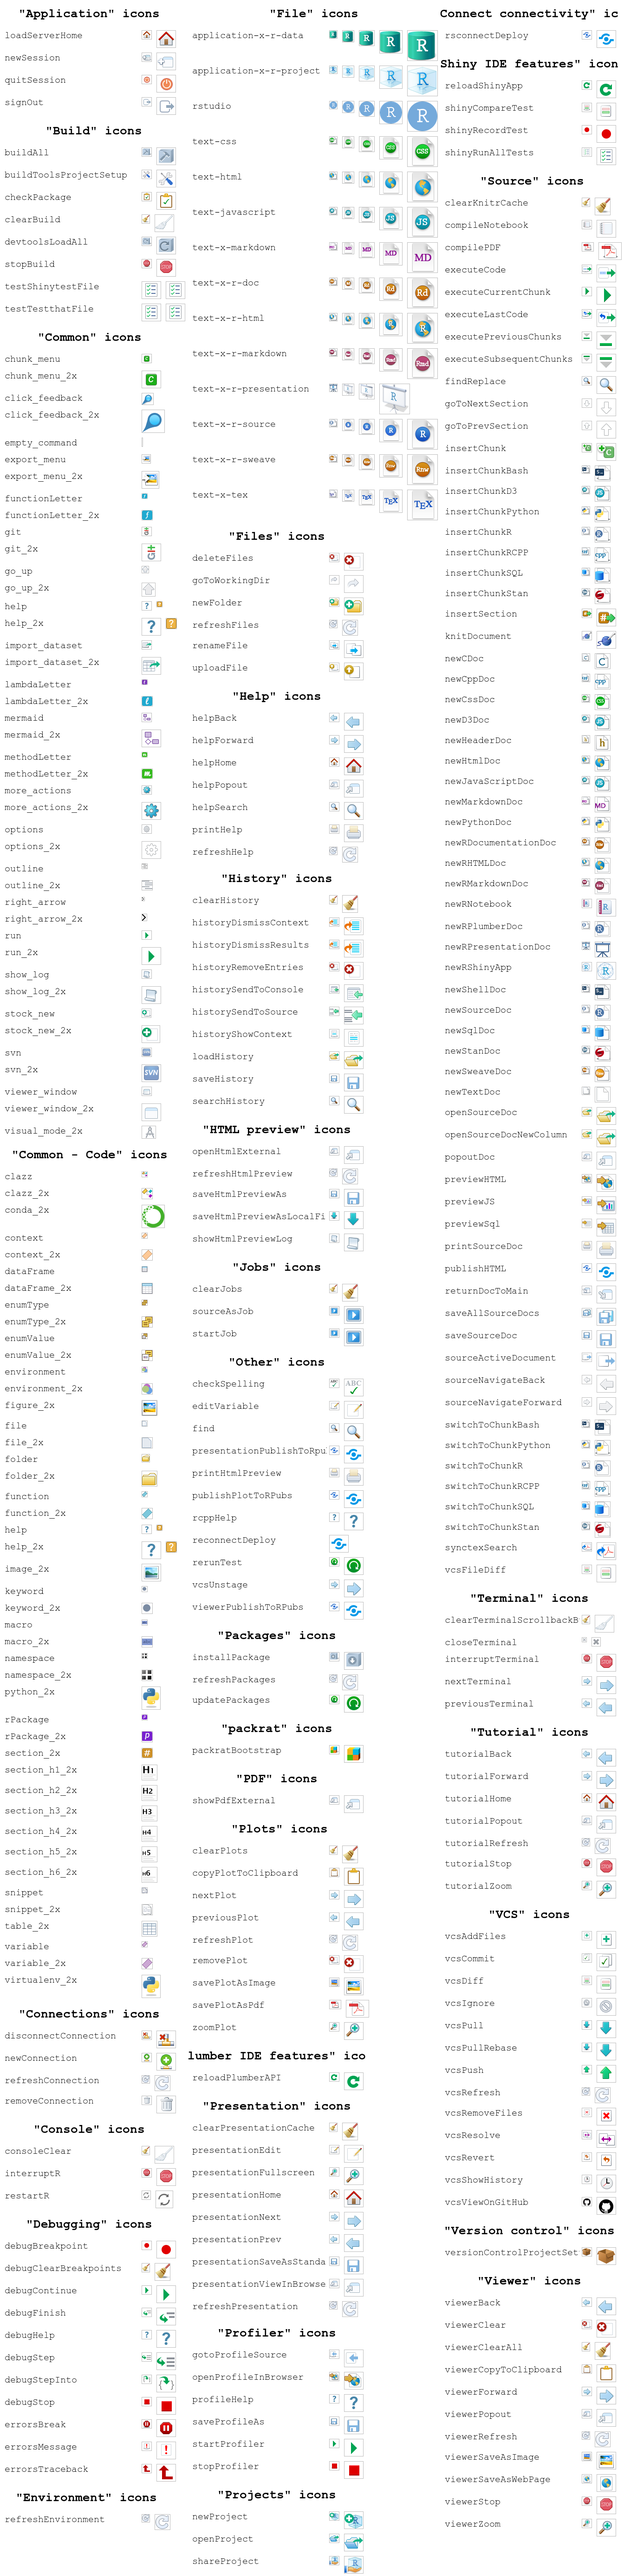
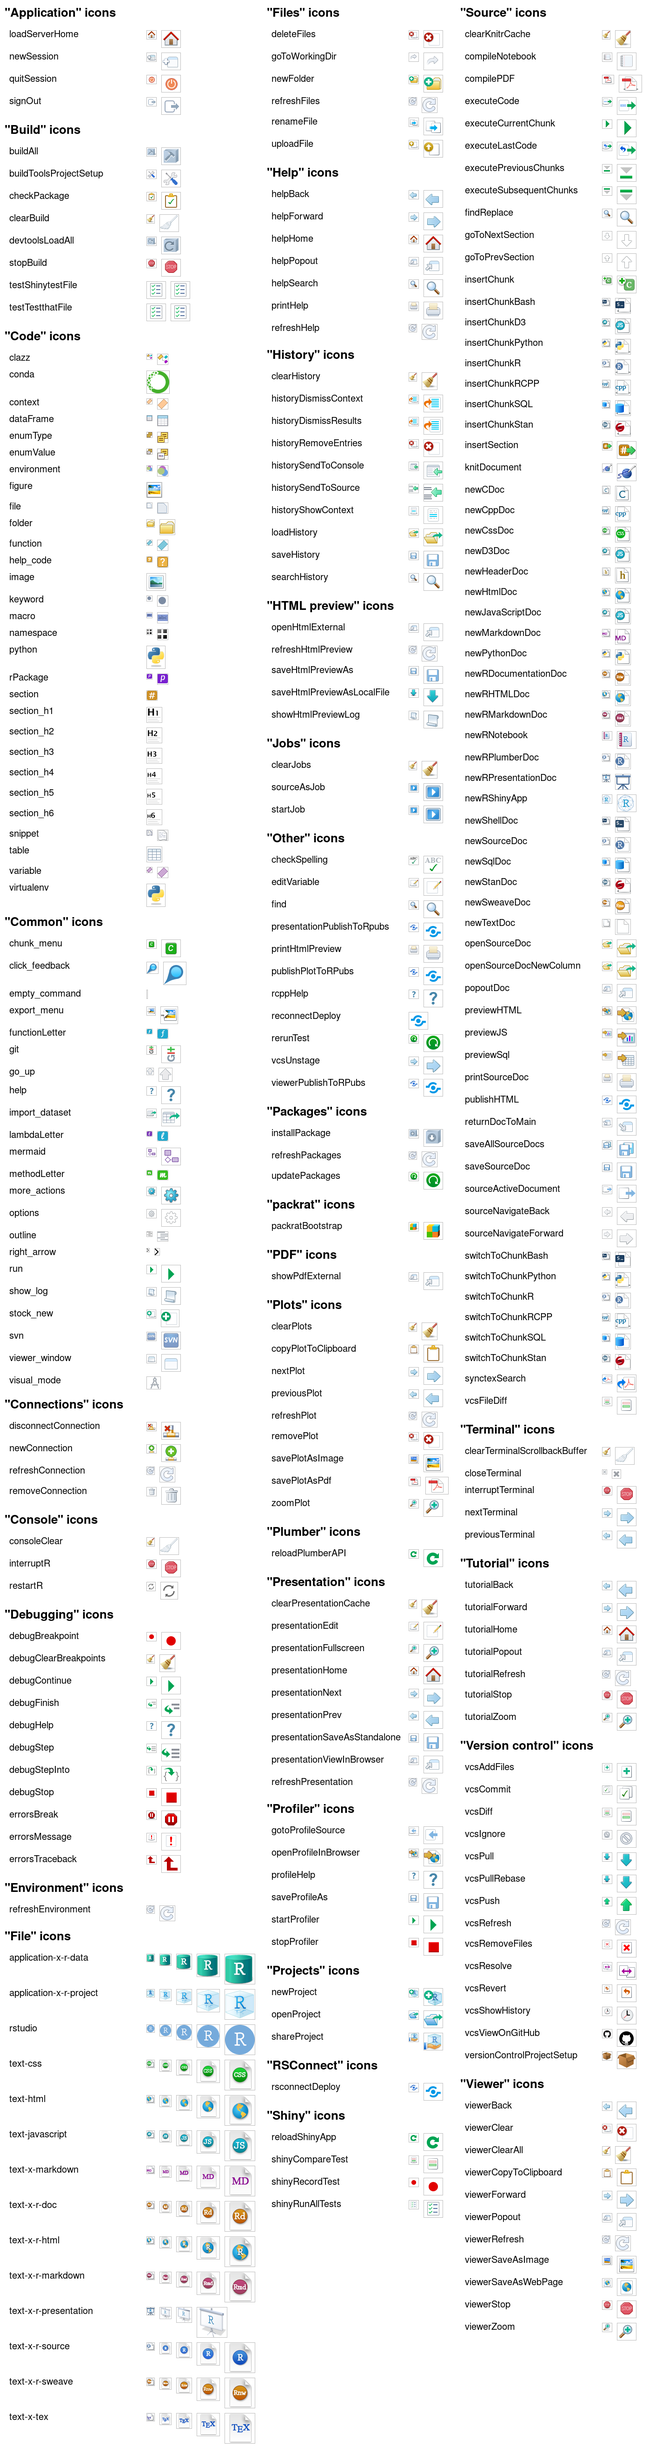
Improve appearance of previews

diff --git a/README.md b/README.md
@@ -70,5 +70,5 @@ information.
 <summary>
 See all available icons
 </summary>
-<img src="man/figures/README-pr_all-1.png" width="1344" />
+<img src="man/figures/README-pr_all-1.png" width="1396" />
 </details>
